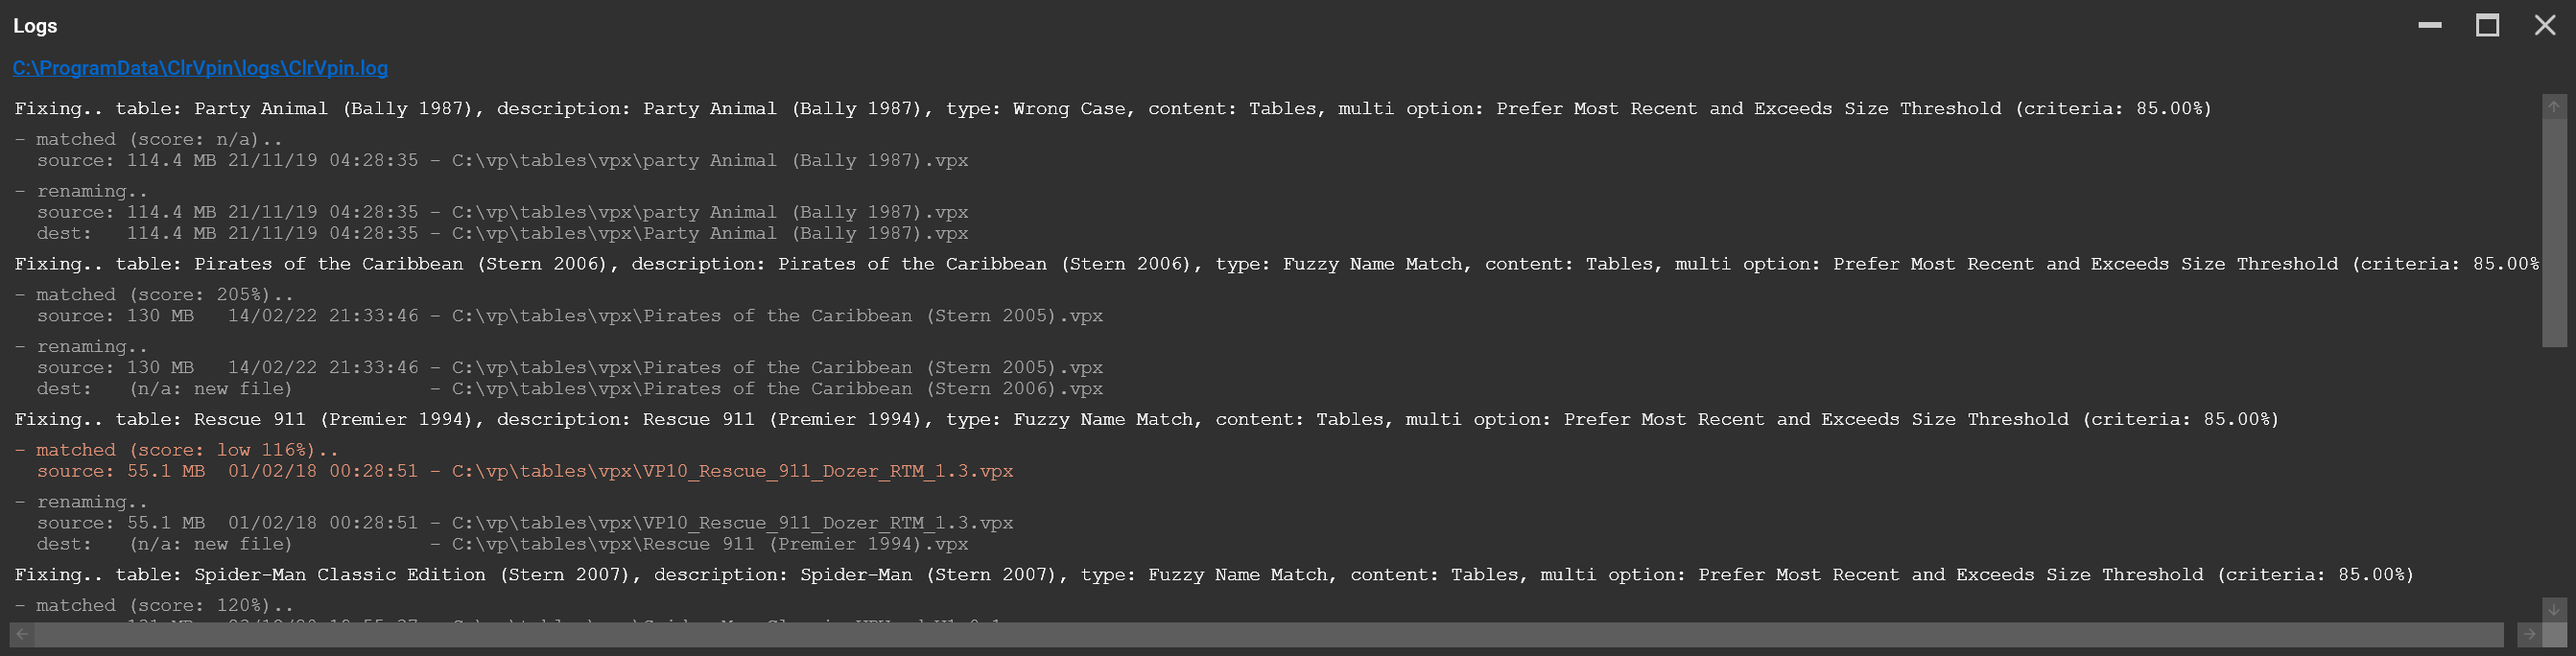
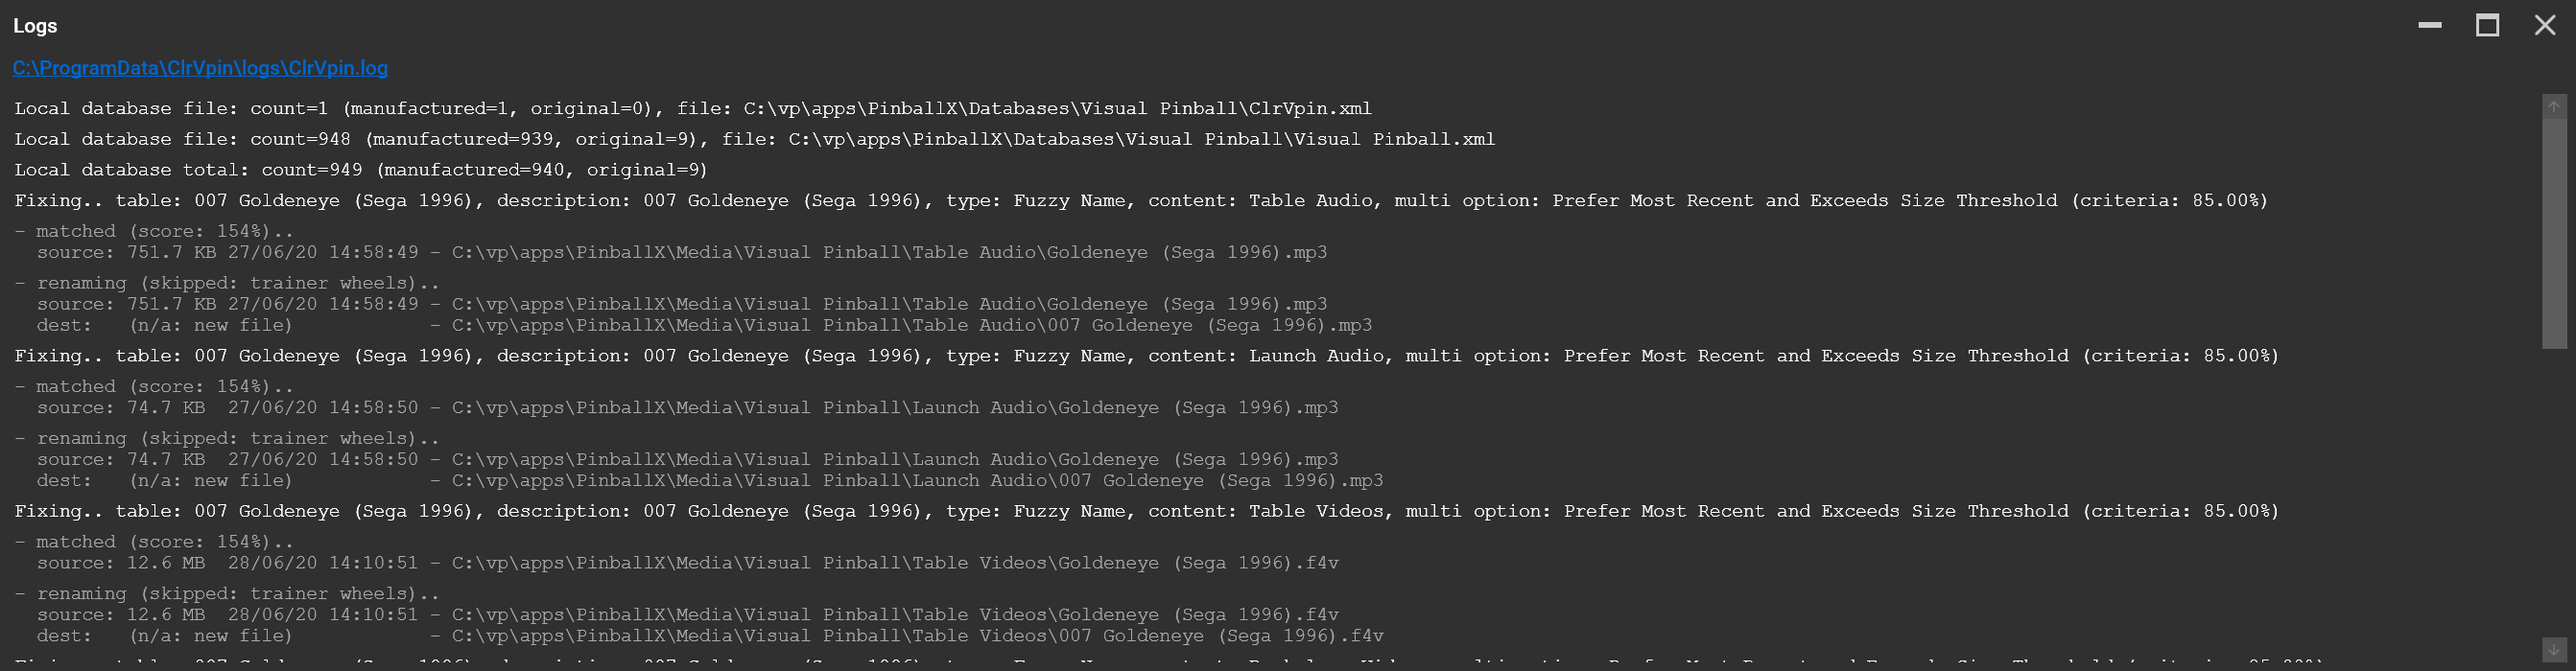
general: updated/added screenshots

diff --git a/ClrVpin/Shared/TableUtils.cs b/ClrVpin/Shared/TableUtils.cs
@@ -173,7 +173,7 @@ namespace ClrVpin.Shared
         private static void LogDatabaseStatistics(IReadOnlyCollection<GameDetail> gameDetails, string file = null)
         {
             Logger.Info(
-                $"Local database tables: {(file == null ? "total " : "")}count={gameDetails.Count} (manufactured={gameDetails.Count(onlineGame => !onlineGame.Derived.IsOriginal)}, original={gameDetails.Count(onlineGame => onlineGame.Derived.IsOriginal)})" +
+                $"Local database {(file == null ? "total" : "file")}: count={gameDetails.Count} (manufactured={gameDetails.Count(onlineGame => !onlineGame.Derived.IsOriginal)}, original={gameDetails.Count(onlineGame => onlineGame.Derived.IsOriginal)})" +
                 $"{(file == null ? "" : ", file: " + file)}");
         }
 

diff --git a/ClrVpin/Importer/ImporterUtils.cs b/ClrVpin/Importer/ImporterUtils.cs
@@ -45,7 +45,7 @@ public static class ImporterUtils
 
         var onlineGames = (await httpClient.GetFromJsonAsync<OnlineGame[]>(VisualPinballSpreadsheetDatabaseUrl, _jsonSerializerOptions))!.ToList();
 
-        Logger.Info($"Online database tables:  count={onlineGames.Count} (manufactured={onlineGames.Count(onlineGame => !onlineGame.IsOriginal)}, original={onlineGames.Count(onlineGame => onlineGame.IsOriginal)})");
+        Logger.Info($"Online database: count={onlineGames.Count} (manufactured={onlineGames.Count(onlineGame => !onlineGame.IsOriginal)}, original={onlineGames.Count(onlineGame => onlineGame.IsOriginal)})");
 
         return onlineGames;
     }
